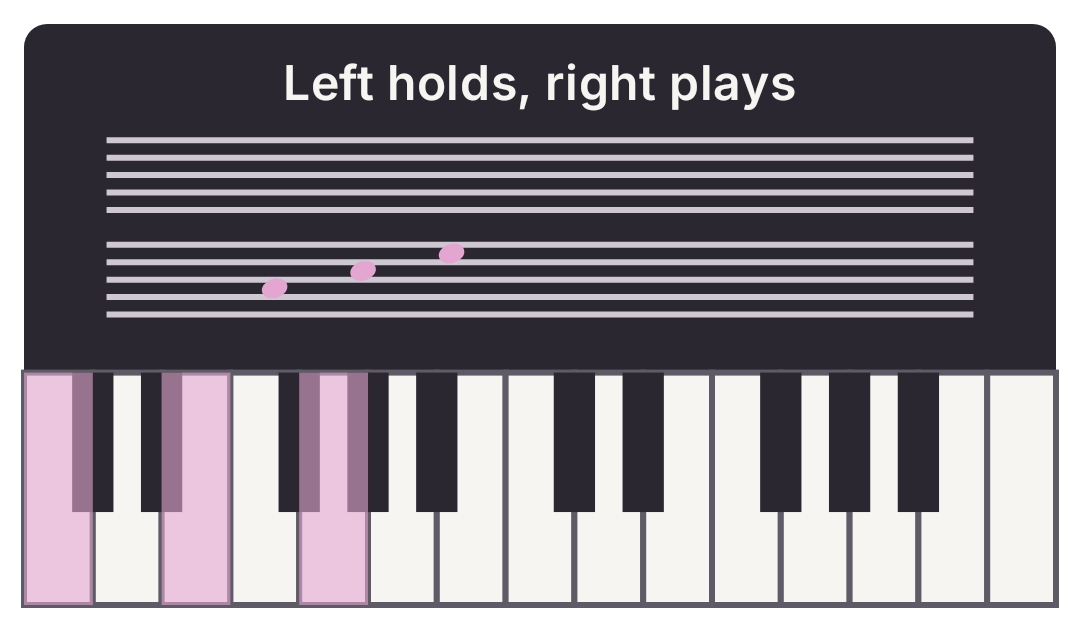
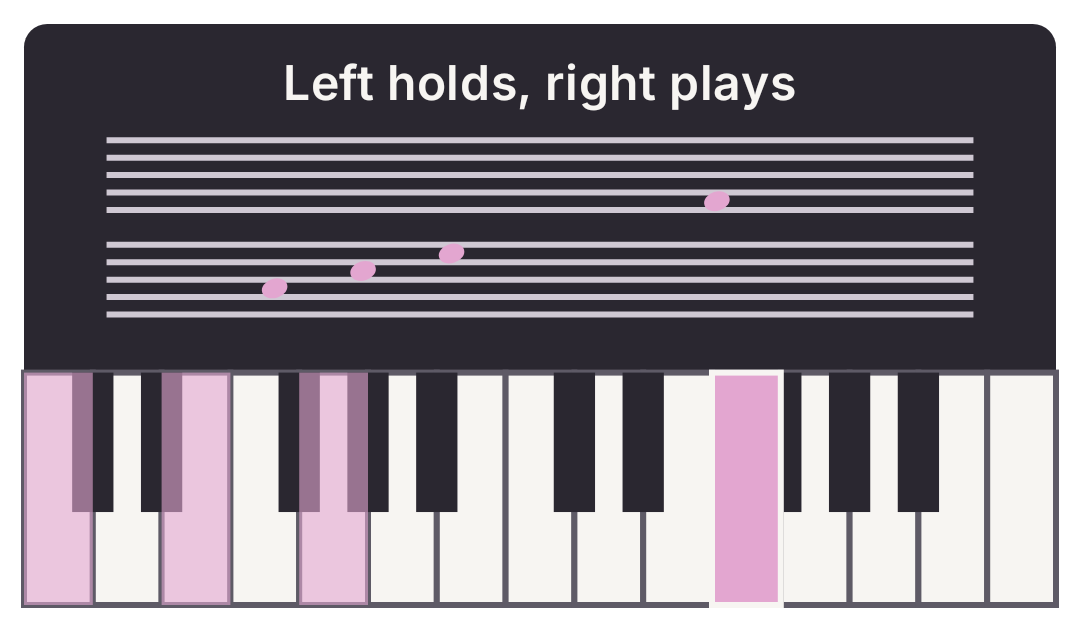
refactor(lesson): name Unit 3 scene notes, show the tune at the midpoint
Claude-Session: https://claude.ai/code/session_014xjm8CuAuZwPDSYGcQmcsU

Changed region(s): [[0.6417, 0.5739, 0.7333, 0.9666], [0.6417, 0.3021, 0.6722, 0.3323]]

diff --git a/engine/src/commonMain/kotlin/pianoanchor/engine/content/CardScenes.kt b/engine/src/commonMain/kotlin/pianoanchor/engine/content/CardScenes.kt
@@ -44,6 +44,7 @@ private const val STAFF_GAP_MS = 1000
 private const val STAFF_END_MS = 3700
 private const val G_ABOVE_MIDDLE_C = 67
 private const val LOW_C = 48
+private const val E_ABOVE_LOW_C = 52
 private const val F_ABOVE_LOW_C = 53
 private const val G_ABOVE_LOW_C = 55
 private const val E_ABOVE_MIDDLE_C = 64
@@ -65,6 +66,7 @@ private const val CHORD_FINGER_GAP_MS = 500
 private const val CHORD_AT_MS = 1800
 private const val SYMBOL_AT_MS = 250
 private const val SYMBOL_MS = 1200
+private const val TUNE_AT_MS = 50
 private const val TUNE_NOTE_MS = 900
 private const val ACCIDENTAL_AT_MS = 900
 private const val ACCIDENTAL_MS = 1200
@@ -76,7 +78,7 @@ private const val B_BELOW_MIDDLE_C = 59
 private const val C_SHARP = 61
 private val ODE_NOTES = listOf(E_ABOVE_MIDDLE_C, E_ABOVE_MIDDLE_C, F_ABOVE_MIDDLE_C, G_ABOVE_MIDDLE_C)
 private val C_CHORD_NOTES = listOf(MIDDLE_C, E_ABOVE_MIDDLE_C, G_ABOVE_MIDDLE_C)
-private val LOW_C_CHORD_NOTES = listOf(LOW_C, 52, G_ABOVE_LOW_C)
+private val LOW_C_CHORD_NOTES = listOf(LOW_C, E_ABOVE_LOW_C, G_ABOVE_LOW_C)
 private val FIVE_FINGER_NOTES = listOf(60, 62, 64, 65, 67)
 private val RUN_NOTES = FIVE_FINGER_NOTES + FIVE_FINGER_NOTES.dropLast(1).reversed()
 
@@ -202,7 +204,7 @@ internal object CardScenes {
             SceneStage(60..72),
             listOf(
                 cue(RUN_START_MS, STEP_MS, LightKey(60)),
-                cue(RUN_START_MS + STEP_MS, STEP_MS, LightKey(62)),
+                cue(RUN_START_MS + STEP_MS, STEP_MS, LightKey(D_ABOVE_MIDDLE_C)),
                 cue(RUN_START_MS, 2 * STEP_MS, Caption("Step")),
                 cue(SKIP_AT_MS, STEP_MS, LightKey(64)),
                 cue(SKIP_AT_MS, STEP_MS, Highlight(setOf(65))),
@@ -393,7 +395,7 @@ internal object CardScenes {
                 listOf(cue(0, CARD_SCENE_LOOP_MS, LightKey(it)), cue(0, CARD_SCENE_LOOP_MS, SceneAction.StaffNote(it)))
             } +
                 ODE_NOTES.withIndex().flatMap { (i, note) ->
-                    val at = STAFF_AT_MS + i * TUNE_NOTE_MS
+                    val at = TUNE_AT_MS + i * TUNE_NOTE_MS
                     listOf(
                         cue(at, TUNE_NOTE_MS - POSE_OVERLAP_MS, LightKey(note, strong = true)),
                         cue(at, TUNE_NOTE_MS - POSE_OVERLAP_MS, SceneAction.StaffNote(note)),
@@ -410,7 +412,11 @@ internal object CardScenes {
                 cue(STAFF_AT_MS, ACCIDENTAL_AT_MS - STAFF_AT_MS, LightKey(MIDDLE_C)),
                 cue(ACCIDENTAL_AT_MS, ACCIDENTAL_MS, LightKey(C_SHARP, strong = true)),
                 cue(ACCIDENTAL_AT_MS, ACCIDENTAL_MS, Caption("C\u266F")),
-                cue(ACCIDENTAL_AT_MS + ACCIDENTAL_MS, FLAT_AT_MS - ACCIDENTAL_AT_MS - ACCIDENTAL_MS, LightKey(62)),
+                cue(
+                    ACCIDENTAL_AT_MS + ACCIDENTAL_MS,
+                    FLAT_AT_MS - ACCIDENTAL_AT_MS - ACCIDENTAL_MS,
+                    LightKey(D_ABOVE_MIDDLE_C),
+                ),
                 cue(FLAT_AT_MS, CAPTION_END_MS - FLAT_AT_MS - POSE_OVERLAP_MS, LightKey(C_SHARP, strong = true)),
                 cue(FLAT_AT_MS, CAPTION_END_MS - FLAT_AT_MS - POSE_OVERLAP_MS, Caption("D\u266D")),
             ),

diff --git a/engine/src/commonTest/kotlin/pianoanchor/engine/content/CardScenesTest.kt b/engine/src/commonTest/kotlin/pianoanchor/engine/content/CardScenesTest.kt
@@ -57,13 +57,11 @@ class CardScenesTest {
 
     @Test
     fun `g and f chords keep the shared G lit from the C chord into the G chord`() {
-        val g =
-            checkNotNull(Curriculum.scene(Skills.G_AND_F_CHORDS.id)).cues.filter {
-                (it.action as? SceneAction.LightKey)?.note ==
-                    67
-            }
+        val scene = checkNotNull(Curriculum.scene(Skills.G_AND_F_CHORDS.id))
+        val g = scene.cues.filter { (it.action as? SceneAction.LightKey)?.note == 67 }
+        val gChordAt = scene.cues.first { (it.action as? SceneAction.Caption)?.text == "G" }.atMs
         assertEquals(1, g.size)
-        assertTrue(g.single().lengthMs > 1200)
+        assertTrue(g.single().atMs < gChordAt && g.single().atMs + g.single().lengthMs > gChordAt)
     }
 
     @Test
